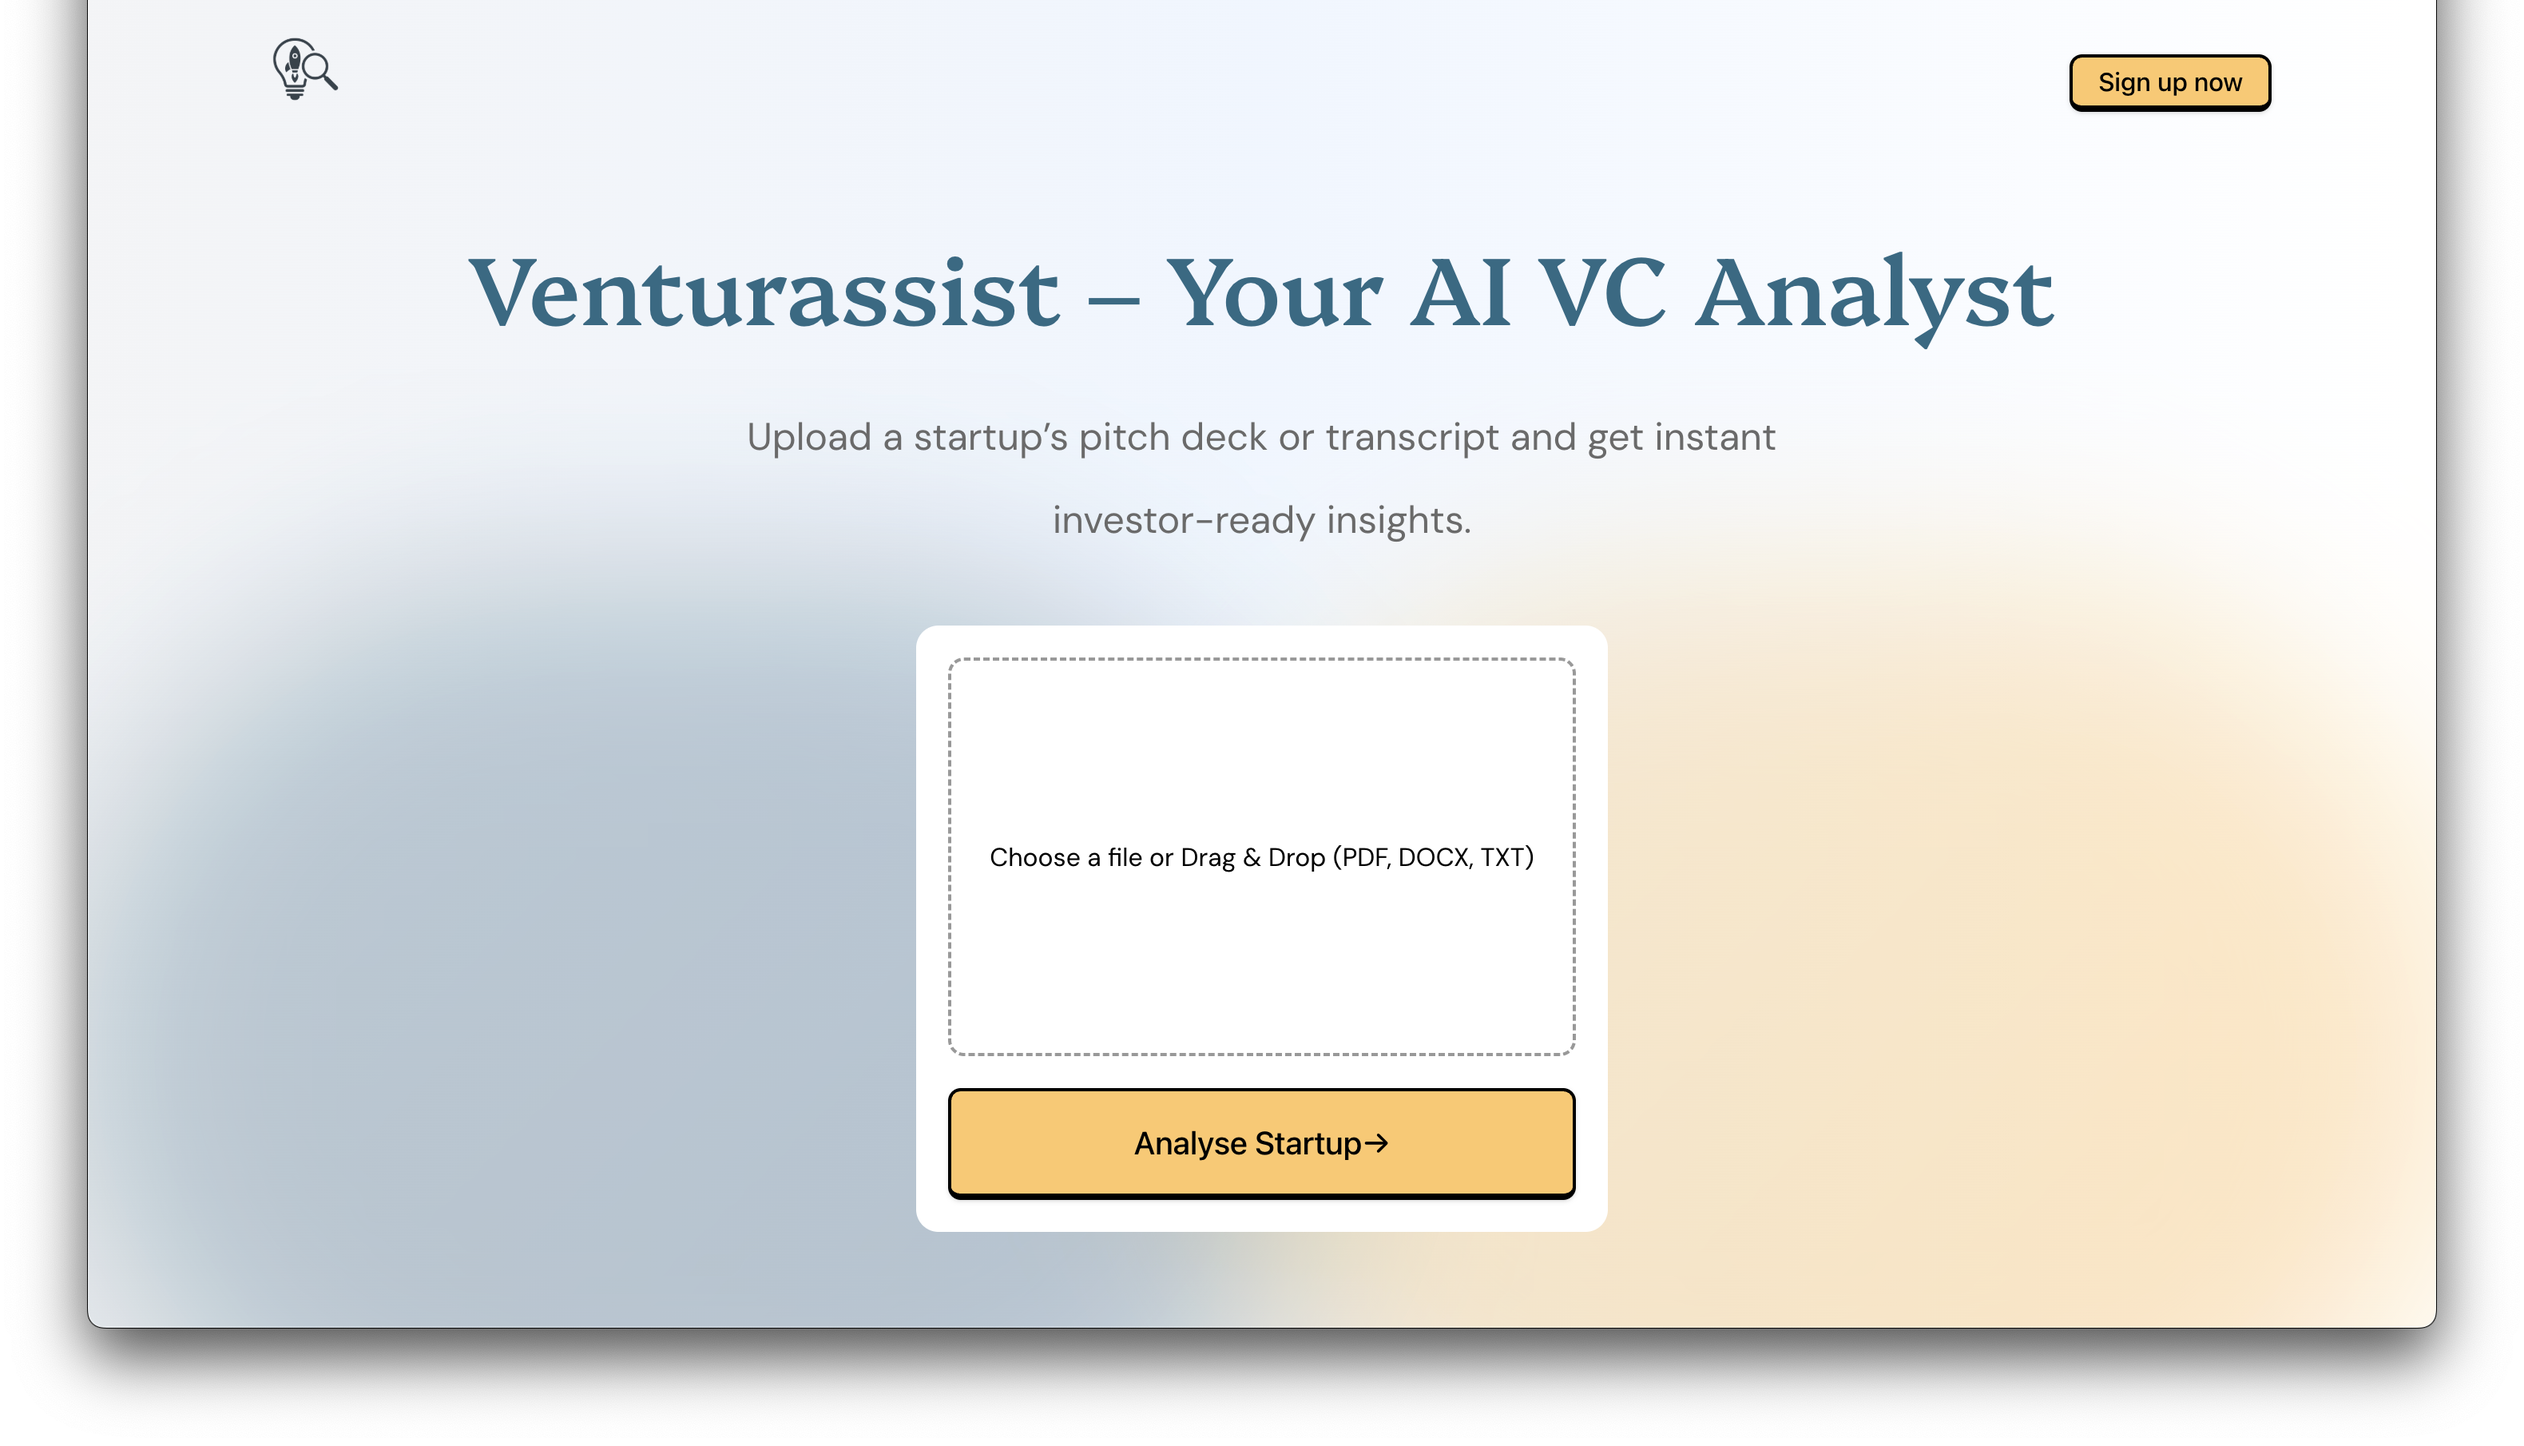
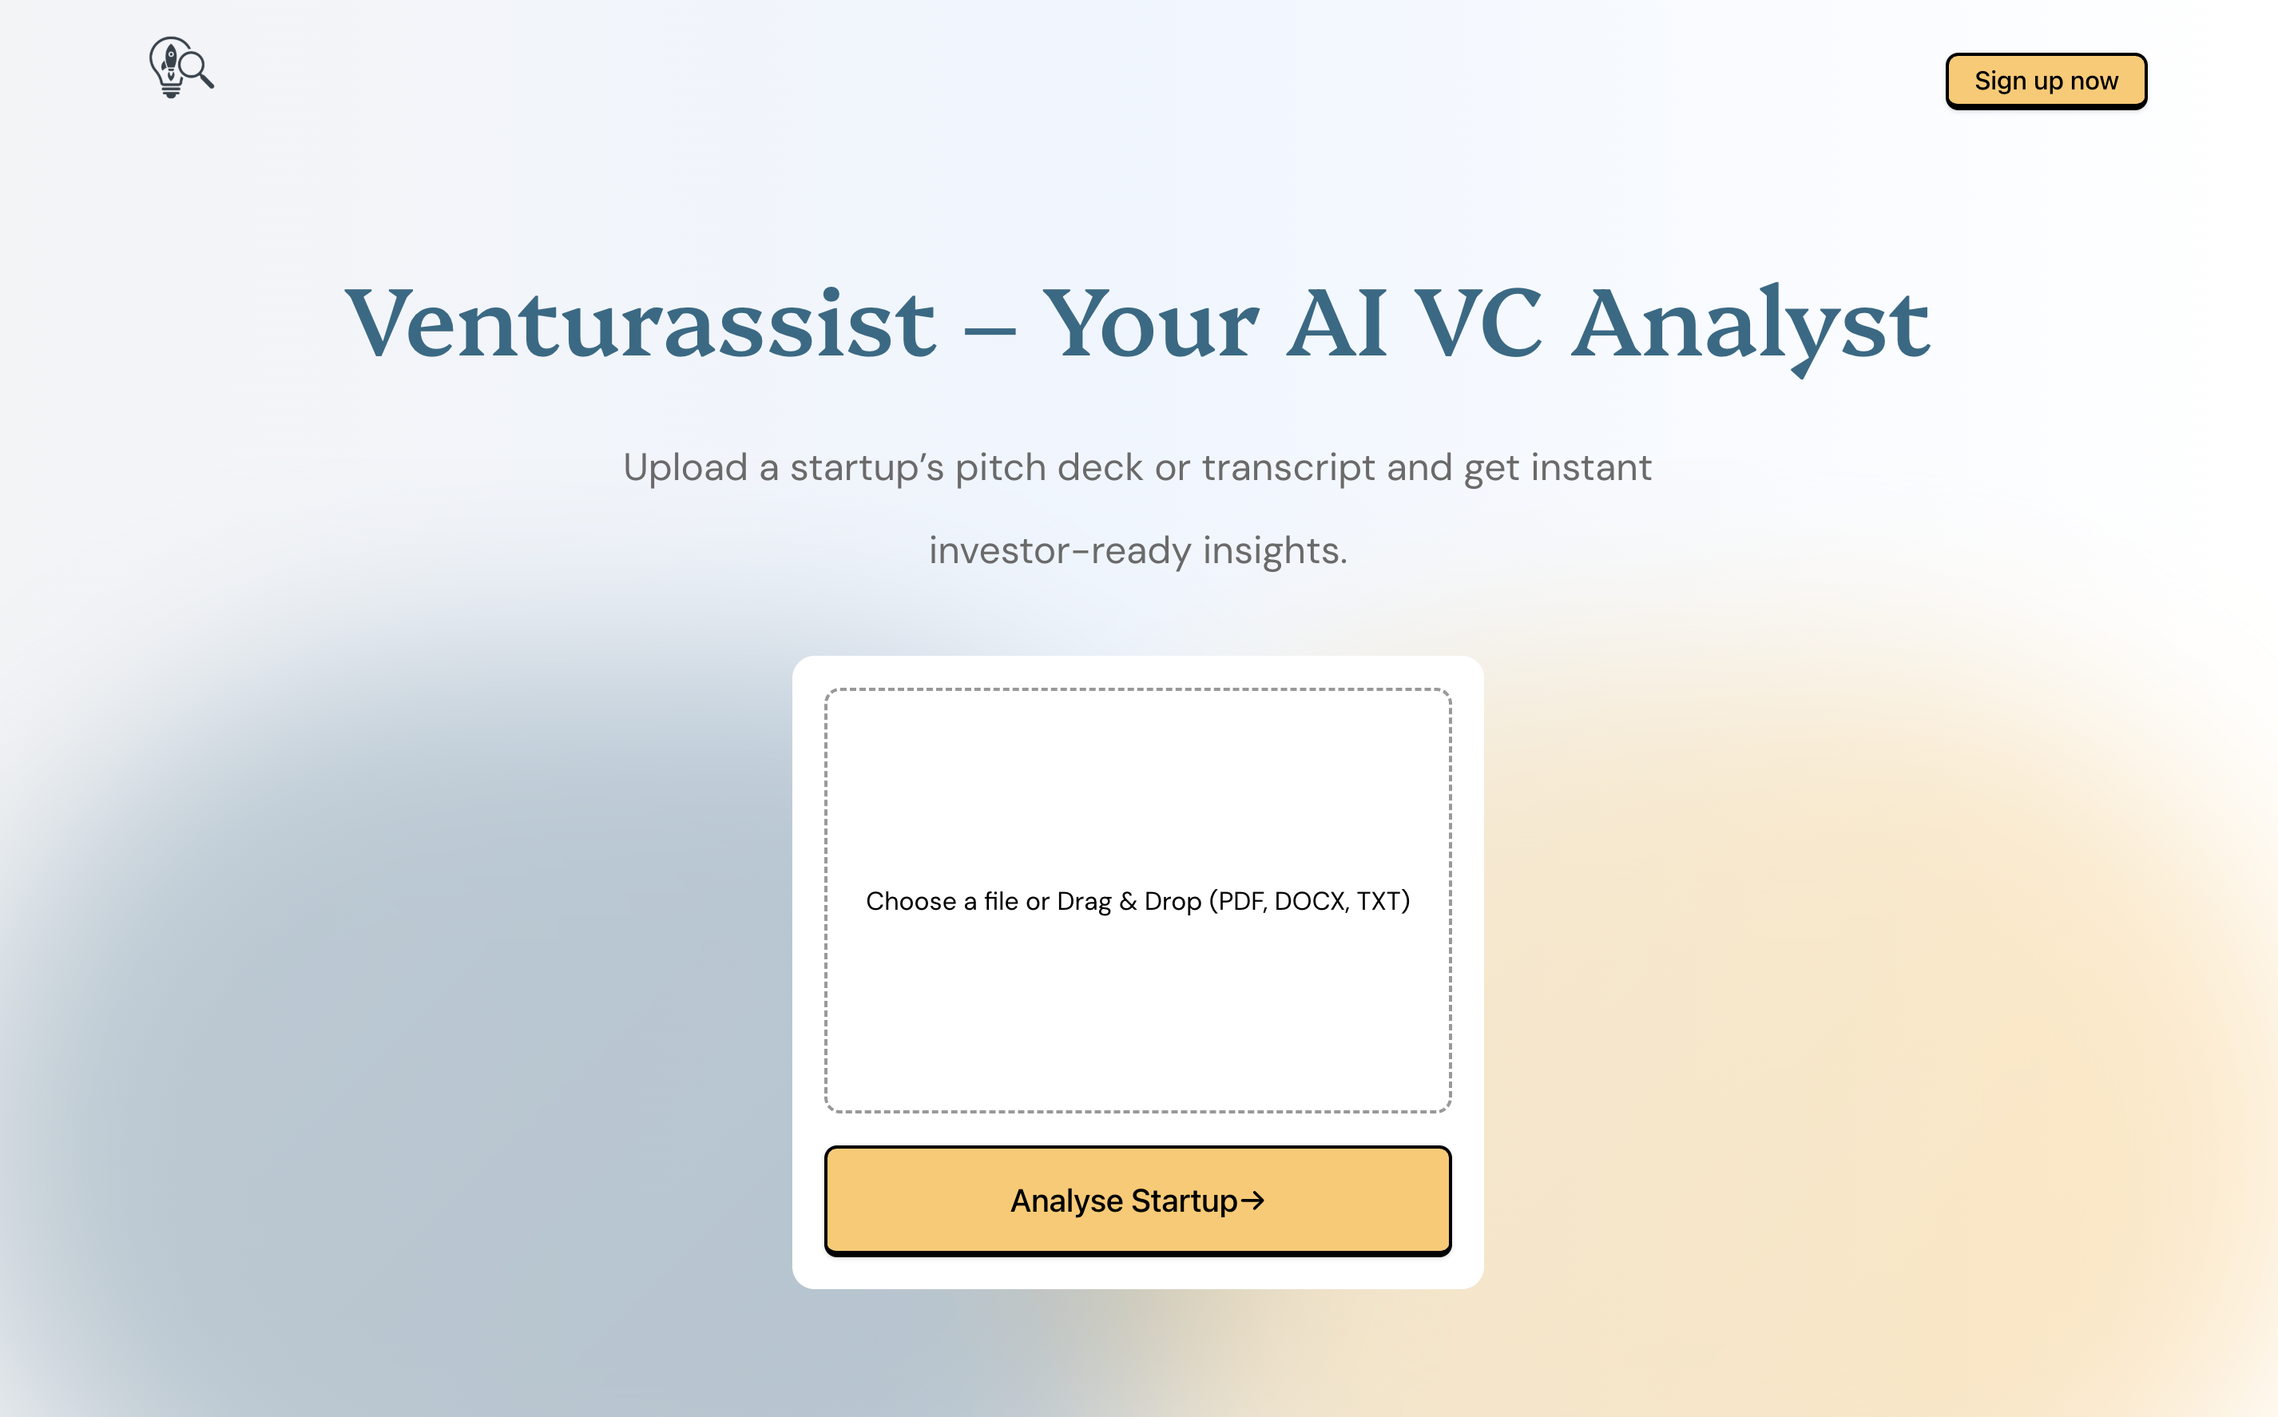
polish experience badge + bump connect last-updated date
- experience FTE/freelance badge: smaller, lowercase
- connect section: last updated 21/06/26

Changed region(s): [[0.0, 0.0, 1.0, 1.0], [0.156, 0.155, 0.8426, 0.279], [0.2809, 0.279, 0.7177, 0.403]]

diff --git a/src/components/experience-section.tsx b/src/components/experience-section.tsx
@@ -11,7 +11,6 @@ type Experience = {
   period: string;
   points: string[];
   tags: string[];
-  images: [string, string];
 };
 
 // one flat list, ordered newest -> oldest (present first, then 2026 -> 2024)
@@ -23,8 +22,8 @@ const experiences: Experience[] = [
     period: "present",
     points: [
       "Build and operate voice AI systems that have handled 200k+ calls across client campaigns.",
-      "Own agent prompt design, CRM integration, lead-batch workflows, transcript extraction, and post-call automation.",
-      "Building a fantasy sports auction platform (IPL, FIFA, Women's T20) for a 130k+ user base.",
+      "Own agent prompt design, custom CRM integration, lead-batch workflows, transcript extraction, and post-call automation.",
+      "Build and operate a free to play fantasy sports auction platform (IPL, FIFA, Women's T20) for a 130k+ user base.",
     ],
     tags: [
       "Next.js",
@@ -36,7 +35,6 @@ const experiences: Experience[] = [
       "Resend",
       "Redis",
     ],
-    images: ["/projects/doublesalesai.png", "/projects/dashboard.png"],
   },
   {
     title: "moai",
@@ -48,10 +46,6 @@ const experiences: Experience[] = [
       "Surfaces performance through dashboard and calendar analytics views.",
     ],
     tags: ["Next.js", "TypeScript", "Prisma", "PostgreSQL", "TanStack Query"],
-    images: [
-      "/projects/external/krish-trade-moai-1.jpg",
-      "/projects/external/krish-trade-moai-2.jpg",
-    ],
   },
   {
     title: "downthecove",
@@ -63,10 +57,6 @@ const experiences: Experience[] = [
       "Handled retail/wholesale channels, subscriptions, Royal Mail shipping, and Cloudflare R2 media.",
     ],
     tags: ["Next.js", "TypeScript", "Stripe", "PostgreSQL", "Docker"],
-    images: [
-      "/projects/external/krish-downthecove-1.jpg",
-      "/projects/external/krish-downthecove-3.jpg",
-    ],
   },
   {
     title: "thomasbewick",
@@ -78,10 +68,6 @@ const experiences: Experience[] = [
       "Stripe PaymentIntents with webhook-driven order creation and Resend transactional emails.",
     ],
     tags: ["Next.js", "TypeScript", "Stripe", "WooCommerce", "Resend"],
-    images: [
-      "/projects/external/hanabi-thomasbewick-1.png",
-      "/projects/external/hanabi-thomasbewick-2.png",
-    ],
   },
   {
     title: "rudra cybersecurity",
@@ -101,7 +87,6 @@ const experiences: Experience[] = [
       "Redis",
       "Tailwind CSS",
     ],
-    images: ["/projects/dashboard.png", "/projects/realestate.png"],
   },
   {
     title: "ballarat box sports",
@@ -113,17 +98,8 @@ const experiences: Experience[] = [
       "Added local-business SEO, structured data, and validated lead capture.",
     ],
     tags: ["Next.js", "TypeScript", "Tailwind CSS", "Motion", "Zod"],
-    images: [
-      "/projects/external/hanabi-ballarat-1.png",
-      "/projects/external/hanabi-ballarat-2.png",
-    ],
   },
 ];
-
-const imagePositions = [
-  { className: "left-[6%] top-6 z-10 w-[62%]", rotate: -6 },
-  { className: "bottom-0 right-[6%] w-[62%]", rotate: 6 },
-] as const;
 
 function getTech(tag: string) {
   const key = tag
@@ -174,7 +150,7 @@ export default function ExperienceSection() {
                     {exp.title}
                     <span className="text-secondary">.</span>
                   </span>
-                  <span className="font-display rounded-full border border-white/25 px-2.5 py-0.5 text-xs text-white/60 md:text-sm">
+                  <span className="rounded-full border border-white/25 px-2 py-0.5 text-[10px] font-medium tracking-[0.08em] text-white/60 lowercase md:text-xs">
                     {exp.kind}
                   </span>
                 </span>
@@ -207,8 +183,8 @@ export default function ExperienceSection() {
                     }}
                     className="overflow-hidden"
                   >
-                    <div className="grid gap-8 pb-12 lg:grid-cols-2">
-                      <div className="flex flex-col gap-6">
+                    <div className="pb-12">
+                      <div className="flex w-full flex-col gap-6">
                         <ul className="marker:text-secondary flex list-disc flex-col gap-2.5 pl-5 text-lg leading-relaxed text-white/85 md:text-xl">
                           {exp.points.map((point) => (
                             <li key={point}>{point}</li>
@@ -245,36 +221,6 @@ export default function ExperienceSection() {
                             );
                           })}
                         </div>
-                      </div>
-
-                      <div className="relative mx-auto min-h-[240px] w-full max-w-sm lg:max-w-md">
-                        {exp.images.map((src, imageIndex) => {
-                          const pos = imagePositions[imageIndex];
-                          return (
-                            <motion.img
-                              key={src}
-                              src={src}
-                              alt={`${exp.title} preview`}
-                              initial={{
-                                y: 90,
-                                opacity: 0,
-                                rotate: pos.rotate,
-                              }}
-                              animate={{
-                                y: 0,
-                                opacity: 1,
-                                rotate: pos.rotate,
-                              }}
-                              transition={{
-                                type: "spring",
-                                stiffness: 180,
-                                damping: 22,
-                                delay: 0.12 + imageIndex * 0.12,
-                              }}
-                              className={`absolute rounded-xl border border-white/10 shadow-2xl ${pos.className}`}
-                            />
-                          );
-                        })}
                       </div>
                     </div>
                   </motion.div>

diff --git a/src/components/connect-section.tsx b/src/components/connect-section.tsx
@@ -3,7 +3,7 @@ import Link from "next/link";
 const email = "deydevelops@gmail.com";
 
 // bump this when the site changes (dd/mm/yy)
-const lastUpdated = "17/06/26";
+const lastUpdated = "21/06/26";
 
 const socials = [
   {

diff --git a/README.md b/README.md
@@ -4,10 +4,11 @@ Personal portfolio built with Next.js and Bun.
 
 ## Content Notes
 
-- Homepage experience content lives in `src/components/experience-section.tsx`.
+- Homepage experience content lives in `src/components/experience-section.tsx`; expanded experience rows render full-width text points and tech tags without preview images.
 - Work experience is shown first, followed by a separate freelance experience section.
 - The homepage GitHub contribution chart is rendered below the About section by `src/components/github-contributions.tsx`.
 - Homepage project box content and priority ordering live in `src/lib/project-boxes.ts`.
 - Project modal screenshots are stored under `public/projects` and externally sourced project screenshots are stored under `public/projects/external`; each project's `images` array controls popup image order.
+- VenturAssist uses the shared screenshot asset at `public/projects/venturassist.png`.
 - Ballarat's additional site-section screenshots use the `ballarat-site-*.webp` naming convention in `public/projects/external`.
 - Project blog/source notes are drafted in `PROJECT_BLOG_DRAFTS.md` and the project selection inventory is in `PROJECTS_INVENTORY.md`.
